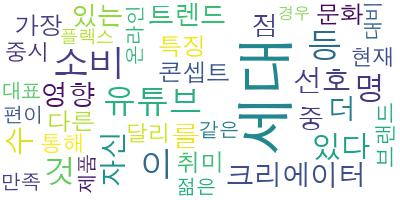
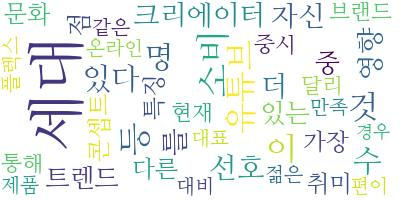
hw2 finish

diff --git a/web_scraping/Data/4일차 수업소스(wordcloud)/wordcloud_01.py b/web_scraping/Data/4일차 수업소스(wordcloud)/wordcloud_01.py
@@ -2,11 +2,13 @@
 Word Cloud 사용하기
 - https://knowable.tistory.com/5
 '''
-from wordcloud import WordCloud
-from konlpy.tag import Okt
-from collections import Counter
-import matplotlib.pyplot as plt
 import platform
+from collections import Counter
+
+import matplotlib.pyplot as plt
+from konlpy.tag import Okt
+from wordcloud import WordCloud
+
 # open으로 txt파일을 열고 read()를 이용하여 읽는다.
 text = open('test.txt', encoding='utf-8').read()
 okt = Okt() # Open Korean Text 객체 생성
@@ -41,7 +43,7 @@ wc = WordCloud(font_path=path, background_color="white", max_font_size=60)
 cloud = wc.generate_from_frequencies(dict(tags))
 
 # 생성된 WordCloud를 test.jpg로 보낸다.
-#cloud.to_file('test.jpg')
+cloud.to_file('test.jpg')
 
 plt.figure(figsize=(10, 8))
 plt.axis('off')

diff --git a/open_data/D_0718/3일차_송인욱.py b/open_data/D_0718/3일차_송인욱.py
@@ -5,10 +5,12 @@ import matplotlib.pyplot as plt
 
 
 def draw_mult_pie(gu_list, male_list, female_list):
-    if platform.system() == "Windows":
-        plt.rc("font", family="Malgun Gothic")
+    if platform.system() == 'Windows':
+        path = r'c:\Windows\Fonts\malgun.ttf'
+    elif platform.system() == 'Darwin': # Mac OS
+        path = r'/System/Library/Fonts/AppleGothic'
     else:
-        plt.rc("font", family="AppleGothic")
+        path = r'/usr/share/fonts/truetype/name/NanumMyeongjo.ttf'
 
     fig, axes = plt.subplots(2, 4, figsize=(15, 8), dpi=100)
     fig.suptitle("대구광역시 구별 남녀 인구 비율", fontsize=15)
